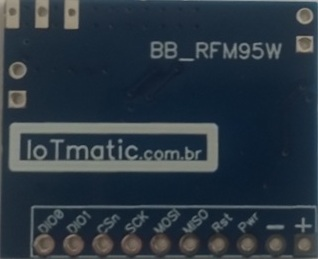
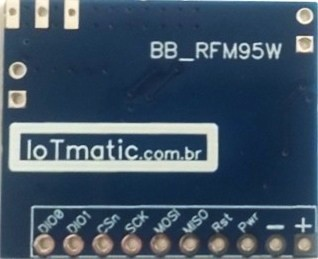
Fotos melhoradas

diff --git a/FW__PIC16F1827__PingPong_RFM_Zilia_Smart/README.md b/FW__PIC16F1827__PingPong_RFM_Zilia_Smart/README.md
@@ -8,7 +8,7 @@ Esta pasta contém o firmware para **PIC16F1827** utilizado no teste de comunica
 
 ## 🛠 Compilação e Gravação
 
-* **Placa Alvo:** Placa customizada PIC17F1827
+* **Placa Alvo:** Placa customizada PIC16F1827
 * **Módulo RF:** RFM95W (via breakout BB_RFM95W)
 
 # Protótipo com PIC16F1827

diff --git a/FW__ESP32__PingPong_RFM_Zilia_Smart/README.md b/FW__ESP32__PingPong_RFM_Zilia_Smart/README.md
@@ -1,3 +1,5 @@
+# TODO -- Breve
+
 # FW__ESP32__PingPong_RFM_Zilia_Smart
 
 Esta pasta contém o firmware para **ESP32** utilizado no teste de comunicação Ping-Pong LoRa com a placa **BB_RFM95W** na plataforma Zilia Smart.

diff --git a/APP__PC/README.md b/APP__PC/README.md
@@ -1,3 +1,6 @@
+# TODO -- Breve
+
+
 # APP__PC
 
 Esta pasta contém o software / aplicação para PC relacionado ao projeto **BB_RFM95W**.
